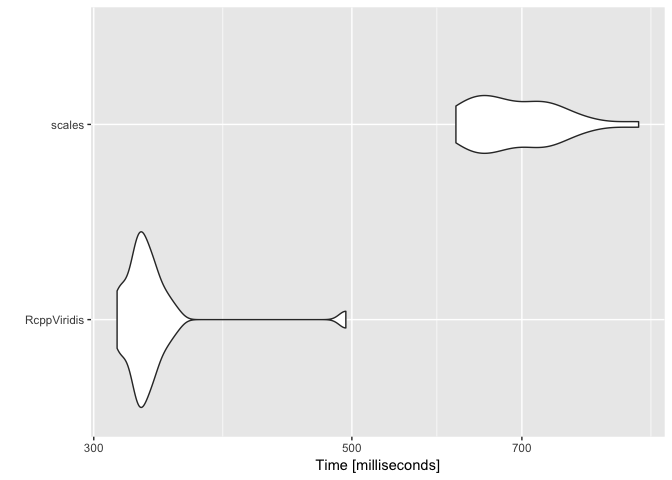
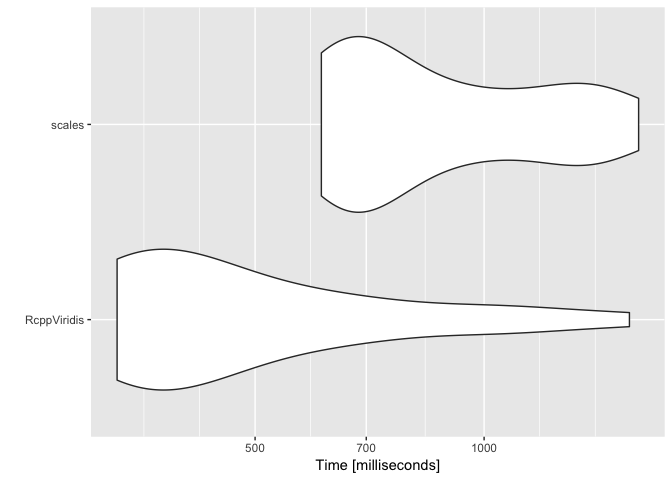
fixed alpha

diff --git a/inst/include/RcppViridis/colours/colours.hpp b/inst/include/RcppViridis/colours/colours.hpp
@@ -71,7 +71,7 @@ namespace colours {
     Rcpp::NumericVector red(256);
     Rcpp::NumericVector green(256);
     Rcpp::NumericVector blue(256);
-    Rcpp::NumericVector alpha(256, 255.0);
+    Rcpp::NumericVector alpha(x.size(), 255.0);
 
     rcppviridis::palette_utils::resolve_palette( palette, red, green, blue, alpha );
 
@@ -97,7 +97,7 @@ namespace colours {
     Rcpp::NumericVector red(256);
     Rcpp::NumericVector green(256);
     Rcpp::NumericVector blue(256);
-    Rcpp::NumericVector alpha_full(256, alpha[0]);
+    Rcpp::NumericVector alpha_full(x.size(), alpha[0]);
 
     rcppviridis::palette_utils::resolve_palette( palette, red, green, blue );
 
@@ -148,7 +148,7 @@ namespace colours {
     Rcpp::NumericVector red(256);
     Rcpp::NumericVector green(256);
     Rcpp::NumericVector blue(256);
-    Rcpp::NumericVector alpha(256, 255.0);
+    Rcpp::NumericVector alpha(x.size(), 255.0);
 
     rcppviridis::palette_utils::resolve_palette( palette, red, green, blue, alpha );
     Rcpp::NumericVector out_nv = resolve_string_vector( x );
@@ -174,7 +174,7 @@ namespace colours {
     Rcpp::NumericVector red(256);
     Rcpp::NumericVector green(256);
     Rcpp::NumericVector blue(256);
-    Rcpp::NumericVector alpha_full(256, alpha[0]);
+    Rcpp::NumericVector alpha_full(x.size(), alpha[0]);
 
     rcppviridis::palette_utils::resolve_palette( palette, red, green, blue );
     Rcpp::NumericVector out_nv = resolve_string_vector( x );

diff --git a/inst/include/RcppViridis/palette_utils/palette_utils.hpp b/inst/include/RcppViridis/palette_utils/palette_utils.hpp
@@ -23,7 +23,7 @@ namespace palette_utils {
       Rcpp::NumericVector& blue,
       Rcpp::NumericVector& alpha ) {
 
-    double scale = 1 / 255;
+    //double scale = 1 / 255;
     // red = red * scale;
     // blue = blue * scale;
     // green = green * scale;

diff --git a/README.md b/README.md
@@ -27,7 +27,7 @@ I wanted **one** function which will work on **one** argument.
 
 ``` r
 colour_values(1:5)
-# [1] "#44015401" "#3B528B01" "#21908C01" "#5DC96301" "#FDE72501"
+# [1] "#440154FF" "#3B528BFF" "#21908CFF" "#5DC963FF" "#FDE725FF"
 colour_values(letters[1:5])
 # [1] "#440154FF" "#3B528BFF" "#21908CFF" "#5DC963FF" "#FDE725FF"
 ```
@@ -86,10 +86,10 @@ barplot(height = df$a, col = df$col, border = NA, space = 0)
 
 <img src="man/figures/README-unnamed-chunk-2-1.png" width="100%" height="200" />
 
-#### 256 numbers on a non-linear scale
+#### 5000 numbers on a non-linear scale
 
 ``` r
-df <- data.frame(a = 10, x = c((1:256)**3))
+df <- data.frame(a = 10, x = c((1:5000)**3))
 df$col <- colour_values(df$x, palette = "viridis")
 barplot(height = df$a, col = df$col, border = NA, space = 0)
 ```
@@ -184,8 +184,8 @@ m <- microbenchmark(
 m
 # Unit: milliseconds
 #         expr      min       lq     mean   median       uq      max neval
-#  RcppViridis 314.1773 325.5425 337.5898 330.9963 337.9147 494.0678    25
-#       scales 614.3333 639.2441 694.2414 670.1903 732.2109 881.9264    25
+#  RcppViridis 329.2941 352.5408 544.9939 435.2040  620.343 1552.523    25
+#       scales 611.0542 660.5272 911.4572 753.6892 1130.279 1596.273    25
 
 autoplot(m)
 ```
@@ -211,9 +211,9 @@ m <- microbenchmark(
 )
 m
 # Unit: milliseconds
-#         expr      min       lq     mean   median       uq      max neval
-#  RcppViridis 331.7393 348.2373 372.4549 355.1732 368.4722 510.2288    25
-#       scales 621.1769 637.6999 688.5643 665.3922 703.2521 838.5596    25
+#         expr      min       lq     mean   median       uq       max neval
+#  RcppViridis 319.5463 359.8183 474.6694 450.1222 557.6990  777.3813    25
+#       scales 611.1893 633.9163 815.8354 689.8862 973.5289 1429.9318    25
 
 autoplot(m)
 ```
